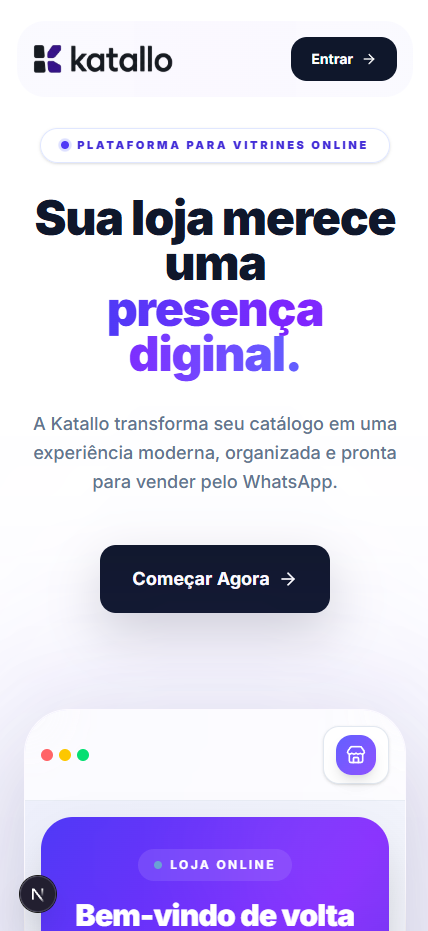
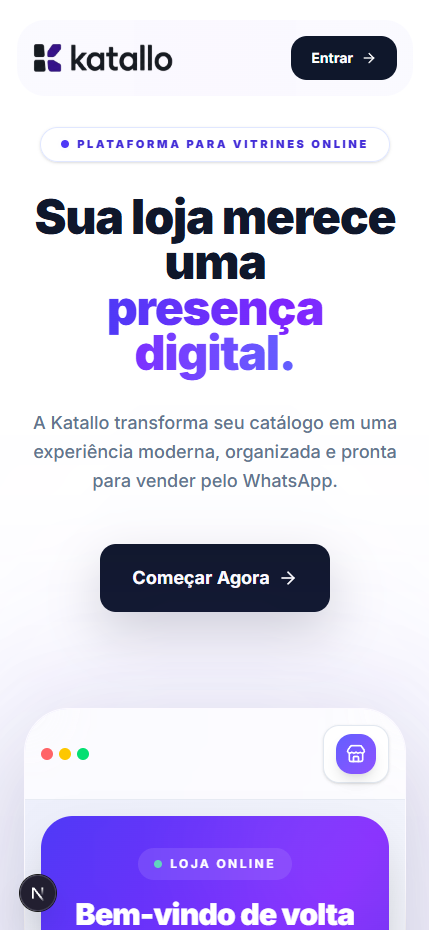
fix: corrige bug de imagem

diff --git a/components/projects.tsx b/components/projects.tsx
@@ -21,7 +21,7 @@ type Project = {
   demo?: string
   tcc?: boolean
   image?: string
-  imageMobile?: string // <-- Adicionado suporte opcional para print mobile
+  imageMobile?: string
 }
 
 const projects: Project[] = [
@@ -34,6 +34,8 @@ const projects: Project[] = [
     statusTone: "dev",
     highlights: ["JWT Authentication", "Google OAuth", "Shopping Cart", "WhatsApp Integration", "Modern fullstack"],
     stack: ["Next.js", "TypeScript", "TailwindCSS", "Java", "Spring Boot", "JWT", "MySQL", "Docker"],
+    image: "/katallo-pc.png",        
+    imageMobile: "/katallo-mobile.png", 
   },
   {
     id: "clickjob",
@@ -46,7 +48,7 @@ const projects: Project[] = [
     highlights: ["Job system", "Applications", "JWT Security", "Layered architecture", "REST API"],
     stack: ["Next.js", "React", "TypeScript", "Java", "Spring Boot", "JWT", "MySQL"],
     image: "/clickjob-pc.png",
-    imageMobile: "/clickjob-mobile.png", // <-- Injetada sua imagem mobile aqui
+    imageMobile: "/clickjob-mobile.png",
   },
   {
     id: "stock",
@@ -253,38 +255,39 @@ export function Projects() {
       {activeProject && activeProject.image && (
         <div 
           className="fixed inset-0 z-50 flex flex-col items-center justify-center bg-background/80 p-4 backdrop-blur-md animate-in fade-in duration-200"
-          onClick={() => setActiveProject(null)} // Fecha clicando fora
+          onClick={() => setActiveProject(null)}
         >
-          {/* Botão Superior para Fechar e Controles de Versão (PC/Mobile) */}
+          {/* Top Bar de Controles do Modal */}
           <div 
-            className="flex w-full max-w-4xl items-center justify-between pb-4"
+            className={cn(
+              "flex items-center justify-between pb-3 transition-all duration-300",
+              viewMode === "pc" ? "w-full max-w-4xl" : "w-full max-w-[340px] xs:max-w-[360px]"
+            )}
             onClick={(e) => e.stopPropagation()}
           >
             <div className="flex items-center gap-2">
-              <h4 className="text-sm font-medium tracking-wide text-foreground">
-                {t(activeProject.titleKey)} Preview
+              <h4 className="text-xs font-medium tracking-wide text-foreground truncate max-w-[120px] xs:max-w-none">
+                {t(activeProject.titleKey)}
               </h4>
               {activeProject.imageMobile && (
-                <div className="ml-4 flex items-center gap-1 rounded-full border border-border bg-card/50 p-1 backdrop-blur">
+                <div className="ml-2 flex items-center gap-1 rounded-full border border-border bg-card/50 p-0.5 backdrop-blur">
                   <button
                     onClick={() => setViewMode("pc")}
                     className={cn(
-                      "inline-flex h-7 w-7 items-center justify-center rounded-full transition-all",
+                      "inline-flex h-6 w-6 items-center justify-center rounded-full transition-all",
                       viewMode === "pc" ? "bg-primary text-primary-foreground shadow-sm" : "text-muted-foreground hover:text-foreground"
                     )}
-                    title="Ver versão PC"
                   >
-                    <Monitor className="h-3.5 w-3.5" />
+                    <Monitor className="h-3 w-3" />
                   </button>
                   <button
                     onClick={() => setViewMode("mobile")}
                     className={cn(
-                      "inline-flex h-7 w-7 items-center justify-center rounded-full transition-all",
+                      "inline-flex h-6 w-6 items-center justify-center rounded-full transition-all",
                       viewMode === "mobile" ? "bg-primary text-primary-foreground shadow-sm" : "text-muted-foreground hover:text-foreground"
                     )}
-                    title="Ver versão Mobile"
                   >
-                    <Smartphone className="h-3.5 w-3.5" />
+                    <Smartphone className="h-3 w-3" />
                   </button>
                 </div>
               )}
@@ -292,50 +295,59 @@ export function Projects() {
 
             <button 
               onClick={() => setActiveProject(null)}
-              className="inline-flex h-9 w-9 items-center justify-center rounded-full border border-border/80 bg-card/60 text-muted-foreground backdrop-blur transition-all hover:border-primary/40 hover:text-foreground hover:scale-105"
+              className="inline-flex h-7 w-7 items-center justify-center rounded-full border border-border/80 bg-card/60 text-muted-foreground backdrop-blur transition-all hover:border-primary/40 hover:text-foreground"
             >
-              <X className="h-4 w-4" />
+              <X className="h-3.5 w-3.5" />
             </button>
           </div>
 
           {/* Janela do Mac Expandida */}
           <div 
             className={cn(
-              "flex flex-col border border-border bg-background shadow-2xl overflow-hidden transition-all duration-300 rounded-xl",
-              viewMode === "pc" ? "w-full max-w-4xl aspect-[16/10]" : "w-[320px] aspect-[9/16]"
+              "flex flex-col border border-border shadow-2xl transition-all duration-300 rounded-xl bg-background overflow-hidden",
+              viewMode === "pc" 
+                ? "w-full max-w-4xl aspect-[16/10]" 
+                : "w-full max-w-[340px] xs:max-w-[360px] aspect-[9/19.5] max-h-[78vh]" // Altura máxima e proporção exata do iPhone 14 Pro Max
             )}
-            onClick={(e) => e.stopPropagation()} // Impede fechar ao clicar na janela
+            onClick={(e) => e.stopPropagation()}
           >
             {/* Barra do Mac */}
-            <div className="flex h-9 items-center bg-card border-b border-border/60 px-4 gap-2 flex-none justify-between">
+            <div className="flex h-8 items-center bg-card border-b border-border/40 px-3 gap-1.5 flex-none justify-between">
               <div className="flex gap-1.5">
-                <button onClick={() => setActiveProject(null)} className="h-3 w-3 rounded-full bg-[#FF5F56] hover:opacity-80 transition-opacity" />
-                <div className="h-3 w-3 rounded-full bg-[#FFBD2E]" />
-                <div className="h-3 w-3 rounded-full bg-[#27C93F]" />
+                <button onClick={() => setActiveProject(null)} className="h-2.5 w-2.5 rounded-full bg-[#FF5F56] hover:opacity-80 transition-opacity" />
+                <div className="h-2.5 w-2.5 rounded-full bg-[#FFBD2E]" />
+                <div className="h-2.5 w-2.5 rounded-full bg-[#27C93F]" />
               </div>
-              <div className="font-mono text-[10px] text-muted-foreground/80 select-none">
-                {viewMode === "pc" ? "clickjob.com" : "clickjob.com"}
+              <div className="font-mono text-[9px] text-muted-foreground/80 select-none tracking-wide">
+                {"gabrieloliveira.dev"}
               </div>
-              <div className="w-12" /> {/* Spacer para centralizar o texto */}
+              <div className="w-10" />
             </div>
 
-            {/* Imagem em exibição de acordo com o Toggle (PC ou Mobile) */}
-            <div className="relative w-full flex-1 bg-neutral-950 overflow-y-auto custom-scrollbar">
+            {/* Imagem em Exibição com Next Image original de volta ao 'fill' */}
+<div 
+  className={cn(
+    "relative w-full flex-1 overflow-y-auto custom-scrollbar transition-colors duration-300",
+    viewMode === "pc" ? "bg-neutral-950" : "bg-white"
+  )}
+>
               <Image
                 src={viewMode === "pc" ? activeProject.image : (activeProject.imageMobile || activeProject.image)}
                 alt={t(activeProject.titleKey)}
                 fill
+                sizes={viewMode === "pc" ? "(max-width: 1024px) 100vw, 1024px" : "360px"}
                 className={cn(
-                  "object-cover",
-                  viewMode === "pc" ? "object-top" : "object-contain"
+                  "object-top",
+                  viewMode === "pc" ? "object-cover" : "object-contain" // Contain impede qualquer corte lateral e mantém o aspecto do print
                 )}
                 quality={95}
+                priority
               />
             </div>
           </div>
           
-          <p className="mt-4 font-mono text-[10px] text-muted-foreground/60 tracking-wider">
-            DICA: VOCÊ TAMBÉM PODE PRESSIONAR [ESC] PARA FECHAR
+          <p className="mt-3 font-mono text-[9px] text-muted-foreground/50 tracking-wider">
+            ESC PARA FECHAR
           </p>
         </div>
       )}
